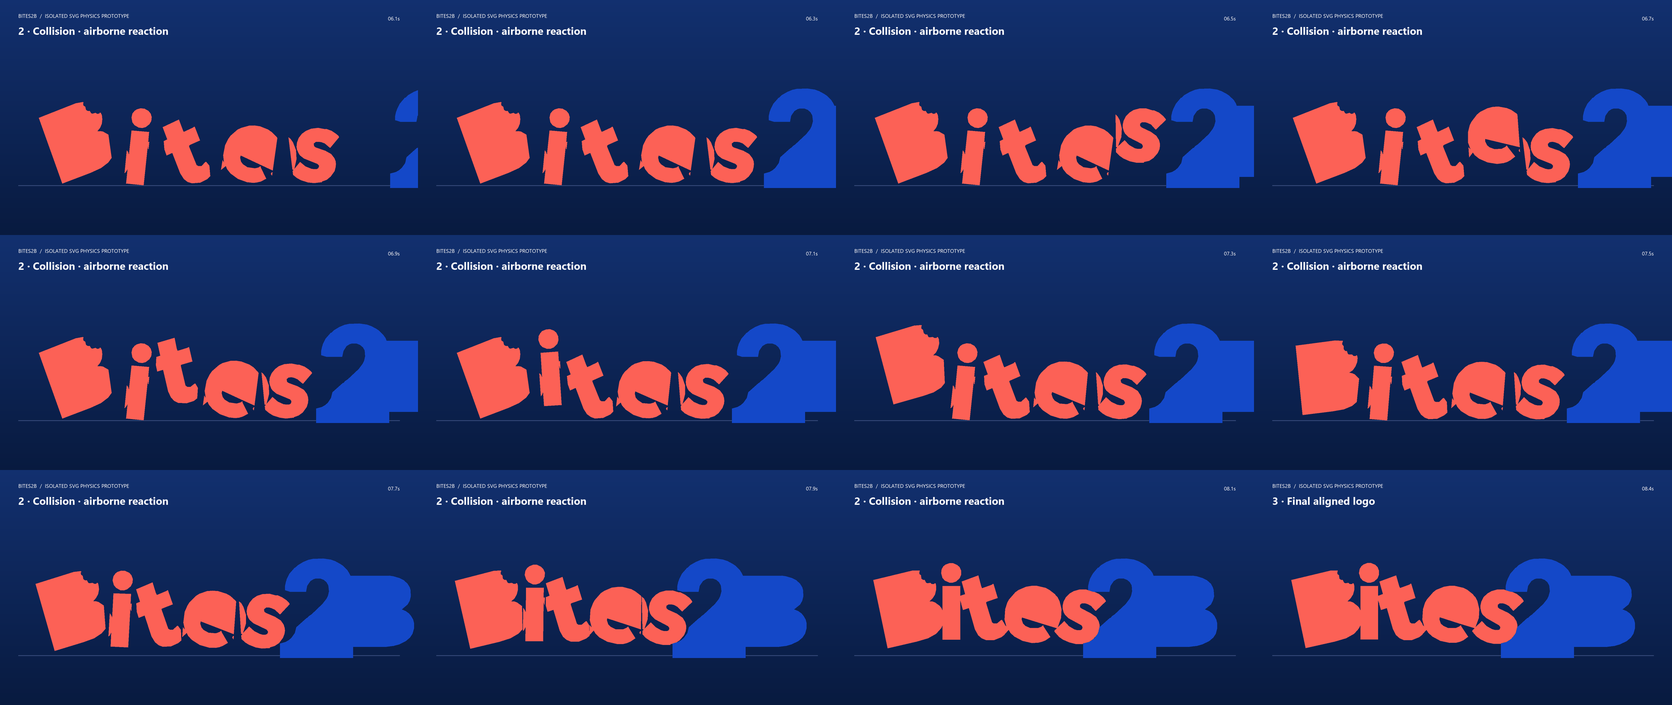
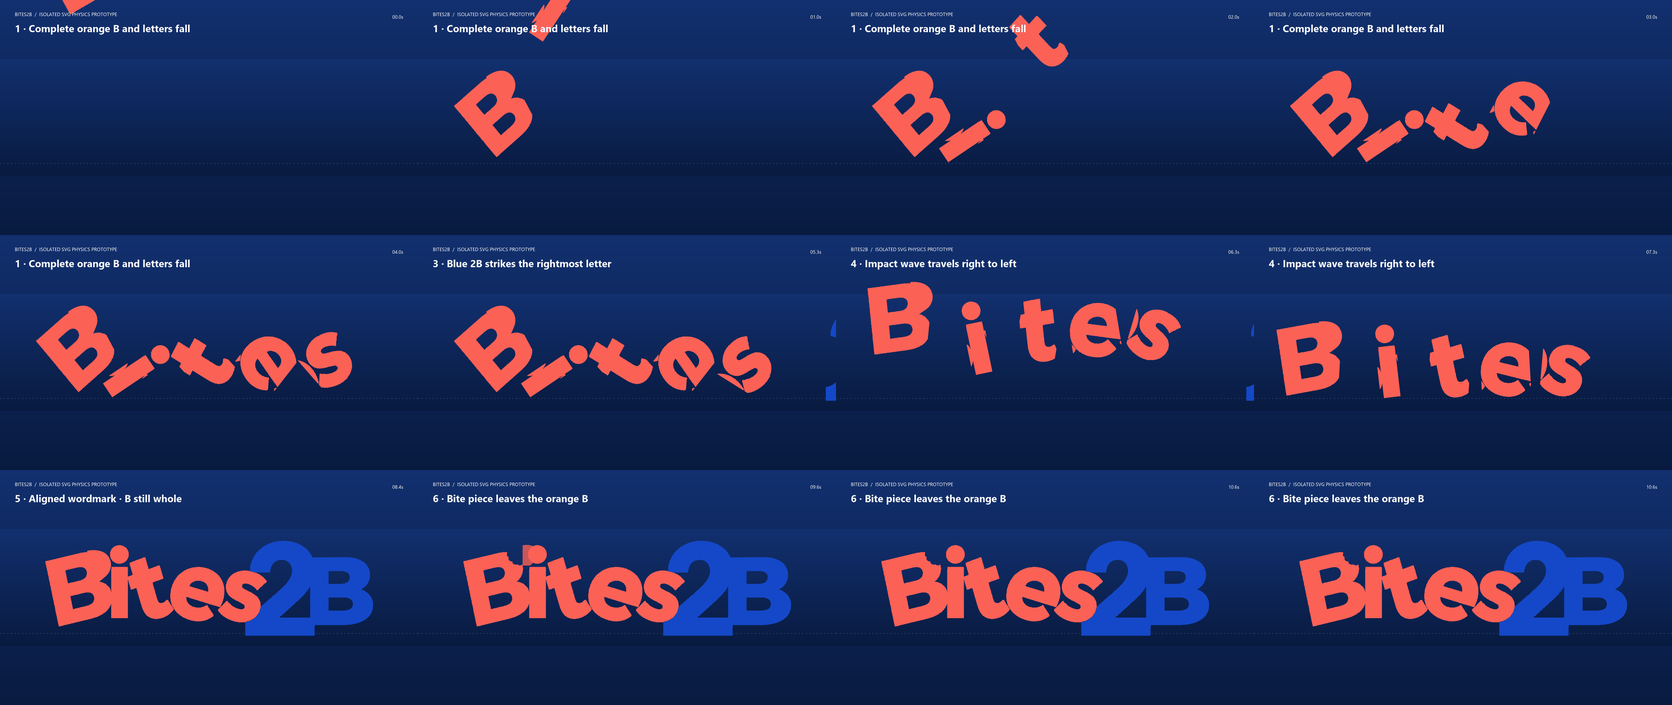
Refresh Bites2B wordmark physics previews

diff --git a/wordmark-physics-prototype.html b/wordmark-physics-prototype.html
@@ -11,7 +11,7 @@ body{display:grid;place-items:center;background:radial-gradient(ellipse at 50% 4
 .frame{width:min(100vw,160vh);height:min(100dvh,62.5vw);min-height:320px;display:grid;grid-template-rows:auto 1fr auto;gap:12px;padding:clamp(14px,3vw,36px)}
 header{display:flex;align-items:center;justify-content:space-between;gap:12px}.eyebrow{font-size:12px;letter-spacing:.14em;text-transform:uppercase;opacity:.7}.stage{font-size:clamp(16px,2.2vw,24px);font-weight:750}
 .stage-window{position:relative;display:grid;place-items:center;min-height:0;overflow:hidden;border:1px solid #ffffff20;border-radius:20px;background:linear-gradient(180deg,#ffffff03 0 68%,#050b25 68% 100%)}
-svg{display:block;width:min(96%,1150px);max-height:88%;overflow:visible;isolation:isolate}.floor{stroke:#8191cf42;stroke-width:2;stroke-dasharray:5 8}.letter path,.blue path{stroke:none;stroke-width:0;vector-effect:non-scaling-stroke}.letter path{fill:var(--orange)}.blue path{fill:var(--blue)}
+svg{display:block;width:min(96%,1150px);max-height:88%;overflow:visible;isolation:isolate}.floor{stroke:#8191cf42;stroke-width:2;stroke-dasharray:5 8}.letter path,.blue path{stroke:none;stroke-width:0;vector-effect:non-scaling-stroke}.letter path{fill:var(--orange)}.blue path{fill:var(--blue)}.bite-piece{transform-box:fill-box;transform-origin:center}
 .letter,.blue{transform-box:view-box;transform-origin:0 0;will-change:transform}.blue{opacity:0}.letter{opacity:0}
 .controls{display:flex;align-items:center;justify-content:space-between;gap:12px}.buttons{display:flex;gap:8px;flex-wrap:wrap}button{font:inherit;color:#fff;background:#ffffff10;border:1px solid #ffffff30;border-radius:999px;padding:9px 15px;cursor:pointer}button:hover,button[aria-pressed=true]{background:#ffffff27}button:focus-visible{outline:3px solid white;outline-offset:2px}.legend{font-size:12px;opacity:.65}
 @media(max-width:560px){.frame{width:100vw;height:100dvh;min-height:0;padding:16px;gap:8px}.stage-window{border-radius:14px}svg{width:114%;max-width:none;transform:translateX(-6%)}.controls{align-items:flex-start;flex-direction:column}.legend{font-size:11px}}
@@ -19,60 +19,57 @@ svg{display:block;width:min(96%,1150px);max-height:88%;overflow:visible;isolatio
 </head>
 <body>
 <main class="frame">
-<header><div><div class="eyebrow">Isolated SVG physics prototype</div><div class="stage" id="stage">1 · Scattered letters</div></div><div class="eyebrow">Official 1201 × 366 viewBox</div></header>
+<header><div><div class="eyebrow">Isolated SVG physics prototype</div><div class="stage" id="stage">1 · Letters falling</div></div><div class="eyebrow">Original 1201 × 366 logo coordinates</div></header>
 <section class="stage-window" aria-label="Wordmark collision preview">
-<svg id="mark" viewBox="0 0 1201 366" role="img" aria-label="Bites2B wordmark">
-<line class="floor" x1="0" y1="345" x2="1201" y2="345"/>
-<g class="letter" data-i="0"><path d="M180 236 L187 227 L188 215 L182 203 L172 198 L157 198 L103 211 L112 257 L161 246 L178 239Z M169 58 L169 65 L175 70 L176 81 L182 86 L188 86 L192 95 L196 97 L207 96 L212 100 L220 100 L222 97 L225 98 L227 106 L227 120 L223 136 L215 149 L204 159 L215 160 L223 163 L240 176 L240 256 L226 271 L199 286 L161 297 L61 320 L12 86 L145 54 L170 53 L171 56Z M155 112 L145 107 L132 107 L86 118 L85 123 L94 165 L141 154 L152 148 L158 142 L161 135 L161 122Z"/></g>
-<g class="letter" data-i="1"><path d="M313 162 L313 163 L313 164 L312 164 L309 153 L309 290 L249 290 L249 240 L244 251 L240 255 L240 177 L244 181 L249 192 L249 107 L309 106 L309 140 L313 139Z M244 63 L246 49 L252 39 L259 33 L272 28 L285 28 L299 34 L307 42 L312 54 L312 68 L307 80 L295 91 L284 95 L272 95 L257 88 L249 79Z"/></g>
-<g class="letter" data-i="2"><path d="M381 107 L384 114 L417 102 L421 99 L422 99 L422 100 L423 100 L437 148 L402 160 L398 162 L398 166 L418 231 L424 235 L435 235 L449 223 L450 223 L451 223 L452 223 L461 237 L461 273 L450 282 L425 292 L397 292 L383 286 L371 275 L360 255 L339 182 L319 189 L313 168 L313 139 L326 134 L314 91 L371 70Z"/></g>
-<g class="letter" data-i="3"><path d="M565 186 L595 195 L596 195 L596 194 L597 194 L597 182 L593 171 L587 164 L576 158 L569 156 L550 157 L538 163 L530 173 L530 174 L530 175Z M587 235 L520 214 L519 222 L524 235 L532 243 L549 251 L575 251 L587 246 L593 241 L594 245 L618 281 L601 293 L589 298 L577 301 L555 302 L523 295 L495 280 L481 267 L475 257 L461 272 L461 239 L468 247 L461 222 L463 186 L471 163 L477 152 L498 128 L509 120 L535 109 L553 106 L572 106 L601 113 L615 120 L634 135 L636 138 L636 250Z M633 258 L636 256 L636 267 L632 263Z"/></g>
-<g class="letter" data-i="4"><path d="M725 256 L728 251 L728 247 L724 241 L680 217 L668 205 L664 198 L660 184 L660 174 L663 160 L671 145 L684 132 L698 124 L717 119 L741 119 L763 126 L768 126 L784 134 L798 145 L806 154 L808 159 L774 191 L773 191 L772 191 L757 175 L746 169 L736 166 L726 166 L719 171 L719 179 L724 184 L755 199 L774 213 L783 228 L786 240 L786 249 L784 259 L778 273 L763 290 L748 299 L731 303 L731 304 L730 304 L730 305 L704 305 L683 300 L661 290 L648 281 L636 268 L636 255 L639 253 L639 252 L639 251 L636 250 L636 139 L642 145 L649 158 L656 186 L654 216 L642 249 L665 227 L681 244 L700 255 L711 258 L720 258Z"/></g>
-<g class="blue"><path d="M890 255 L853 288 L963 288 L962 178 L946 201Z M763 64 L780 44 L781 44 L782 44 L791 35 L810 24 L828 17 L842 14 L877 12 L903 16 L918 21 L935 30 L945 37 L960 52 L967 62 L971 72 L1105 71 L1119 73 L1139 79 L1154 87 L1167 99 L1174 111 L1177 121 L1178 143 L1174 158 L1167 170 L1147 187 L1161 193 L1172 201 L1179 209 L1186 222 L1189 234 L1189 252 L1184 270 L1175 284 L1161 296 L1138 307 L1119 312 L1095 315 L980 315 L980 353 L730 353 L730 304 L749 299 L761 292 L770 284 L781 268 L786 248 L821 217 L822 217 L823 217 L830 209 L838 204 L876 168 L889 151 L894 141 L898 125 L896 105 L890 94 L881 86 L868 81 L853 81 L845 83 L834 90 L823 106 L819 126 L764 126 L747 121 L747 107 L750 93 L754 81Z M1029 235 L1029 263 L1093 262 L1110 255 L1116 244 L1116 234 L1113 227 L1108 222 L1091 216 L1029 216Z M1029 147 L1029 165 L1032 167 L1077 167 L1088 165 L1098 160 L1104 151 L1105 139 L1099 128 L1086 122 L1029 121Z"/></g>
+<svg id="mark" viewBox="-150 -30 1500 420" role="img" aria-label="Bites2B wordmark">
+<line class="floor" x1="-150" y1="345" x2="1350" y2="345"/>
+<g class="blue"><path d="M1189 235 L1188 257 L1187 257 L1187 261 L1186 261 L1185 267 L1184 267 L1181 275 L1179 276 L1177 281 L1167 291 L1165 291 L1162 295 L1160 295 L1159 297 L1153 299 L1152 301 L1147 302 L1145 304 L1142 304 L1140 306 L1134 307 L1134 308 L1123 310 L1123 311 L1118 311 L1118 312 L1113 312 L1113 313 L1105 313 L1105 314 L1093 314 L1093 315 L980 315 L980 319 L979 319 L979 353 L730 353 L730 304 L741 302 L741 301 L744 301 L746 299 L749 299 L749 298 L755 296 L756 294 L758 294 L759 292 L761 292 L764 288 L766 288 L771 283 L771 281 L775 278 L777 273 L779 272 L779 270 L780 270 L780 268 L782 266 L784 257 L785 257 L786 248 L789 247 L790 244 L792 244 L796 239 L798 239 L805 231 L807 231 L820 218 L822 218 L829 210 L831 210 L834 206 L836 206 L853 189 L855 189 L859 185 L859 183 L862 182 L878 166 L878 164 L882 161 L882 159 L885 157 L885 155 L889 151 L889 149 L890 149 L890 147 L891 147 L891 145 L892 145 L892 143 L895 139 L895 135 L896 135 L896 132 L897 132 L897 126 L898 126 L898 114 L897 114 L897 108 L896 108 L895 102 L894 102 L893 98 L891 97 L891 95 L883 87 L881 87 L880 85 L878 85 L876 83 L869 82 L869 81 L852 81 L852 82 L845 83 L845 84 L841 85 L840 87 L838 87 L837 89 L835 89 L830 94 L830 96 L827 98 L827 100 L826 100 L826 102 L825 102 L825 104 L823 106 L821 116 L820 116 L819 126 L765 126 L765 125 L761 125 L761 124 L755 123 L755 122 L747 121 L748 102 L749 102 L749 97 L750 97 L750 94 L751 94 L752 87 L754 85 L754 82 L755 82 L755 80 L756 80 L762 66 L767 61 L769 56 L785 40 L787 40 L794 33 L798 32 L799 30 L801 30 L801 29 L803 29 L805 27 L807 27 L808 25 L811 25 L811 24 L813 24 L815 22 L818 22 L820 20 L823 20 L823 19 L826 19 L826 18 L829 18 L829 17 L838 16 L838 15 L842 15 L842 14 L849 14 L849 13 L873 12 L873 13 L892 14 L892 15 L902 16 L902 17 L906 17 L906 18 L915 20 L919 23 L922 23 L922 24 L930 27 L931 29 L933 29 L936 32 L938 32 L939 34 L941 34 L944 38 L946 38 L959 51 L959 53 L963 56 L966 63 L968 64 L971 72 L1102 71 L1102 72 L1113 72 L1113 73 L1119 73 L1119 74 L1127 75 L1127 76 L1136 78 L1138 80 L1141 80 L1141 81 L1147 83 L1148 85 L1152 86 L1153 88 L1155 88 L1157 91 L1159 91 L1165 97 L1165 99 L1168 101 L1168 103 L1170 104 L1170 106 L1171 106 L1171 108 L1172 108 L1172 110 L1175 114 L1175 118 L1176 118 L1176 122 L1177 122 L1177 128 L1178 128 L1178 142 L1177 142 L1177 148 L1176 148 L1175 155 L1174 155 L1169 167 L1166 169 L1166 171 L1158 179 L1156 179 L1153 183 L1151 183 L1150 185 L1148 185 L1146 187 L1159 192 L1160 194 L1162 194 L1163 196 L1168 198 L1172 203 L1175 204 L1175 206 L1178 208 L1178 210 L1180 211 L1180 213 L1182 214 L1182 216 L1185 220 L1185 223 L1186 223 L1186 226 L1187 226 L1187 229 L1188 229 L1188 235Z M1105 147 L1105 138 L1104 138 L1103 132 L1093 124 L1090 124 L1090 123 L1087 123 L1087 122 L1081 122 L1081 121 L1029 121 L1029 167 L1080 167 L1080 166 L1089 165 L1089 164 L1097 161 L1100 158 L1100 156 L1102 155 L1102 153 L1104 151 L1104 147Z M963 177 L961 178 L960 182 L958 183 L956 188 L953 190 L953 192 L945 200 L945 202 L916 231 L914 231 L901 245 L899 245 L891 254 L889 254 L881 263 L879 263 L870 273 L868 273 L860 282 L858 282 L853 287 L853 288 L963 288Z M1116 245 L1116 233 L1114 231 L1114 228 L1107 221 L1105 221 L1103 219 L1100 219 L1098 217 L1093 217 L1093 216 L1029 216 L1029 263 L1087 263 L1087 262 L1094 262 L1094 261 L1098 261 L1098 260 L1101 260 L1101 259 L1106 258 L1107 256 L1109 256 L1113 252 L1113 250 L1115 248 L1115 245Z" fill-rule="evenodd"/></g><g class="letter" data-i="0"><path d="M246 185 L246 247 L244 248 L241 255 L238 257 L238 259 L227 270 L222 272 L217 277 L211 279 L210 281 L207 281 L207 282 L205 282 L201 285 L198 285 L198 286 L190 288 L190 289 L186 289 L186 290 L183 290 L183 291 L179 291 L179 292 L176 292 L176 293 L172 293 L172 294 L168 294 L168 295 L164 295 L164 296 L160 296 L160 297 L155 297 L155 298 L151 298 L151 299 L147 299 L147 300 L143 300 L143 301 L139 301 L139 302 L135 302 L135 303 L131 303 L131 304 L126 304 L126 305 L122 305 L122 306 L118 306 L118 307 L114 307 L114 308 L105 309 L105 310 L102 310 L102 311 L97 311 L97 312 L93 312 L93 313 L89 313 L89 314 L80 315 L80 316 L77 316 L77 317 L61 320 L60 313 L59 313 L59 308 L58 308 L58 304 L57 304 L57 299 L56 299 L56 294 L55 294 L55 289 L54 289 L54 284 L53 284 L53 280 L52 280 L52 275 L51 275 L51 270 L50 270 L46 245 L45 245 L45 241 L44 241 L42 226 L41 226 L40 217 L39 217 L39 213 L38 213 L37 202 L36 202 L35 192 L34 192 L34 188 L33 188 L33 182 L32 182 L32 177 L31 177 L31 173 L30 173 L28 158 L27 158 L27 154 L26 154 L24 139 L23 139 L23 135 L22 135 L20 120 L19 120 L18 111 L17 111 L17 107 L16 107 L16 102 L15 102 L15 97 L14 97 L14 93 L13 93 L13 86 L14 85 L27 83 L27 82 L31 82 L31 81 L36 81 L36 80 L40 80 L40 79 L44 79 L44 78 L49 78 L49 77 L53 77 L53 76 L56 76 L56 75 L69 73 L69 72 L73 72 L73 71 L77 71 L77 70 L81 70 L81 69 L85 69 L85 68 L90 68 L90 67 L94 67 L94 66 L98 66 L98 65 L102 65 L102 64 L107 64 L107 63 L111 63 L111 62 L115 62 L115 61 L119 61 L119 60 L123 60 L123 59 L127 59 L127 58 L132 58 L132 57 L136 57 L136 56 L140 56 L140 55 L153 54 L153 53 L169 53 L170 54 L169 65 L172 69 L175 70 L175 80 L177 81 L178 84 L180 84 L182 86 L188 86 L190 93 L195 97 L199 97 L199 98 L208 97 L211 100 L215 100 L215 101 L220 100 L222 98 L225 98 L226 108 L227 108 L227 118 L226 118 L226 125 L225 125 L225 129 L224 129 L224 133 L223 133 L219 143 L214 148 L214 150 L207 157 L205 157 L204 159 L214 160 L214 161 L220 162 L220 163 L228 166 L243 180 L243 182Z M162 130 L161 121 L160 121 L158 115 L154 111 L152 111 L151 109 L146 108 L146 107 L132 107 L132 108 L122 109 L122 110 L118 110 L118 111 L114 111 L114 112 L110 112 L110 113 L105 113 L105 114 L101 114 L101 115 L97 115 L97 116 L93 116 L93 117 L89 117 L89 118 L85 119 L85 124 L86 124 L86 129 L87 129 L87 134 L88 134 L88 139 L89 139 L89 144 L90 144 L90 149 L91 149 L91 154 L92 154 L92 159 L93 159 L94 165 L101 164 L101 163 L104 163 L104 162 L114 161 L114 160 L118 160 L118 159 L123 159 L123 158 L126 158 L126 157 L138 155 L138 154 L141 154 L141 153 L144 153 L144 152 L148 151 L149 149 L151 149 L159 141 L160 136 L161 136 L161 130Z M188 224 L188 214 L187 214 L187 211 L186 211 L185 207 L183 206 L183 204 L181 202 L179 202 L178 200 L173 199 L173 198 L156 198 L156 199 L152 199 L152 200 L147 200 L147 201 L143 201 L143 202 L139 202 L139 203 L135 203 L135 204 L131 204 L131 205 L127 205 L127 206 L113 208 L113 209 L103 211 L103 216 L104 216 L104 221 L105 221 L105 226 L106 226 L106 230 L107 230 L108 241 L109 241 L109 245 L110 245 L110 251 L111 251 L112 258 L120 256 L120 255 L125 255 L125 254 L129 254 L129 253 L134 253 L134 252 L138 252 L138 251 L158 247 L158 246 L165 245 L165 244 L168 244 L170 242 L173 242 L176 239 L178 239 L184 233 L184 231 L186 230 L187 224Z" fill-rule="evenodd"/><path class="bite-piece" d="M163 48 C194 42 223 48 237 66 C246 78 250 92 248 105 C246 120 239 132 227 142 L204 161 L163 161Z" aria-hidden="true"/></g>
+<g class="letter" data-i="1"><path d="M312 54 L312 68 L311 68 L311 72 L310 72 L308 78 L306 79 L306 81 L298 89 L294 90 L293 92 L283 94 L283 95 L269 94 L269 93 L266 93 L266 92 L262 91 L258 87 L256 87 L252 83 L252 81 L249 79 L249 77 L248 77 L248 75 L246 73 L246 69 L245 69 L245 53 L246 53 L246 50 L248 48 L248 45 L250 44 L250 42 L258 34 L260 34 L261 32 L263 32 L265 30 L272 29 L272 28 L284 28 L284 29 L288 29 L288 30 L291 30 L291 31 L297 33 L298 35 L300 35 L306 41 L306 43 L308 44 L308 46 L310 48 L311 54Z M314 139 L314 163 L312 163 L310 152 L309 152 L309 290 L249 290 L249 239 L248 239 L248 242 L247 242 L246 247 L244 248 L243 252 L241 253 L240 256 L238 256 L238 177 L240 177 L243 180 L243 182 L246 185 L246 188 L248 190 L248 193 L250 195 L250 192 L249 192 L249 114 L250 114 L250 106 L308 106 L308 109 L309 109 L309 141Z" fill-rule="evenodd"/><path class="bite-piece" d="M163 48 C194 42 223 48 237 66 C246 78 250 92 248 105 C246 120 239 132 227 142 L204 161 L163 161Z" aria-hidden="true"/></g>
+<g class="letter" data-i="2"><path d="M461 237 L461 273 L458 276 L456 276 L453 280 L451 280 L451 281 L445 283 L444 285 L442 285 L440 287 L437 287 L435 289 L431 289 L431 290 L424 291 L424 292 L417 292 L417 293 L404 293 L404 292 L398 292 L398 291 L394 291 L392 289 L389 289 L389 288 L385 287 L384 285 L382 285 L381 283 L379 283 L373 277 L373 275 L369 272 L369 270 L367 269 L367 267 L366 267 L366 265 L365 265 L365 263 L364 263 L364 261 L363 261 L363 259 L361 257 L361 254 L360 254 L360 251 L359 251 L356 239 L355 239 L355 235 L354 235 L354 232 L353 232 L353 228 L352 228 L352 225 L351 225 L351 221 L350 221 L350 218 L349 218 L349 215 L348 215 L348 211 L347 211 L347 208 L346 208 L346 204 L345 204 L345 200 L344 200 L344 197 L343 197 L343 193 L342 193 L342 190 L341 190 L340 183 L337 182 L337 183 L331 184 L329 186 L319 188 L318 180 L317 180 L315 170 L314 170 L314 167 L313 167 L313 139 L321 137 L321 136 L326 134 L325 128 L324 128 L324 125 L323 125 L323 121 L322 121 L322 118 L321 118 L321 114 L320 114 L320 111 L319 111 L319 107 L318 107 L318 104 L317 104 L317 101 L316 101 L315 91 L320 90 L320 89 L325 88 L325 87 L328 87 L330 85 L333 85 L335 83 L338 83 L340 81 L349 79 L351 77 L357 76 L357 75 L362 74 L364 72 L371 71 L372 75 L373 75 L374 82 L375 82 L376 90 L377 90 L377 93 L378 93 L378 97 L379 97 L379 100 L380 100 L380 104 L381 104 L381 107 L382 107 L383 114 L385 114 L387 112 L390 112 L390 111 L393 111 L393 110 L396 110 L398 108 L404 107 L406 105 L412 104 L414 102 L423 100 L423 103 L424 103 L424 106 L425 106 L425 109 L426 109 L426 112 L427 112 L427 115 L428 115 L428 118 L429 118 L430 126 L431 126 L433 136 L434 136 L434 139 L435 139 L435 143 L436 143 L436 149 L427 151 L425 153 L422 153 L422 154 L419 154 L419 155 L416 155 L416 156 L413 156 L413 157 L410 157 L410 158 L407 158 L405 160 L402 160 L402 161 L398 162 L400 174 L401 174 L403 184 L404 184 L404 187 L405 187 L405 191 L406 191 L408 202 L409 202 L409 205 L410 205 L410 208 L411 208 L412 216 L413 216 L413 219 L414 219 L414 222 L415 222 L415 225 L416 225 L418 231 L423 235 L431 236 L431 235 L435 235 L435 234 L439 233 L447 225 L452 224 L454 226 L454 228 L456 229 L456 231 L458 232 L459 236Z" fill-rule="evenodd"/><path class="bite-piece" d="M163 48 C194 42 223 48 237 66 C246 78 250 92 248 105 C246 120 239 132 227 142 L204 161 L163 161Z" aria-hidden="true"/></g>
+<g class="letter" data-i="3"><path d="M638 140 L638 250 L635 250 L635 249 L632 249 L632 248 L629 248 L629 247 L626 247 L626 246 L618 245 L618 244 L615 244 L615 243 L612 243 L612 242 L608 242 L608 241 L605 241 L605 240 L601 240 L601 239 L598 239 L598 238 L595 238 L595 237 L585 235 L585 234 L580 233 L580 232 L576 232 L576 231 L566 229 L566 228 L563 228 L563 227 L560 227 L560 226 L557 226 L557 225 L554 225 L554 224 L550 224 L550 223 L547 223 L547 222 L544 222 L544 221 L540 221 L540 220 L537 220 L537 219 L534 219 L534 218 L531 218 L531 217 L528 217 L528 216 L518 214 L520 227 L521 227 L521 230 L524 233 L524 235 L533 244 L535 244 L536 246 L538 246 L542 249 L553 251 L553 252 L571 252 L571 251 L581 249 L581 248 L587 246 L590 243 L593 243 L596 246 L599 253 L601 254 L603 259 L605 260 L605 262 L607 263 L607 265 L609 266 L609 268 L613 272 L614 276 L616 277 L616 282 L612 286 L607 288 L606 290 L604 290 L604 291 L602 291 L602 292 L600 292 L600 293 L598 293 L594 296 L591 296 L591 297 L588 297 L588 298 L585 298 L585 299 L581 299 L581 300 L575 300 L575 301 L565 301 L565 302 L548 301 L548 300 L542 300 L542 299 L537 299 L537 298 L534 298 L534 297 L530 297 L530 296 L524 295 L522 293 L519 293 L517 291 L514 291 L514 290 L506 287 L505 285 L503 285 L502 283 L497 281 L495 278 L493 278 L488 272 L486 272 L483 269 L483 267 L478 263 L478 261 L475 259 L475 257 L473 256 L472 252 L470 251 L470 249 L467 245 L467 242 L466 242 L466 239 L465 239 L465 236 L464 236 L464 232 L463 232 L463 228 L462 228 L462 220 L461 220 L461 202 L462 202 L463 187 L464 187 L464 183 L465 183 L465 180 L466 180 L469 168 L470 168 L476 154 L478 153 L478 151 L480 150 L482 145 L486 142 L486 140 L496 130 L498 130 L501 126 L503 126 L505 123 L507 123 L511 119 L513 119 L513 118 L515 118 L515 117 L517 117 L521 114 L524 114 L526 112 L530 112 L530 111 L533 111 L533 110 L536 110 L536 109 L540 109 L540 108 L555 107 L555 106 L569 106 L569 107 L578 107 L578 108 L588 109 L588 110 L591 110 L591 111 L598 112 L602 115 L605 115 L605 116 L613 119 L614 121 L618 122 L620 125 L622 125 L624 128 L626 128Z M597 195 L597 181 L596 181 L596 177 L595 177 L593 171 L591 170 L591 168 L586 163 L584 163 L583 161 L581 161 L577 158 L573 158 L573 157 L570 157 L570 156 L553 156 L553 157 L547 158 L547 159 L539 162 L533 168 L533 170 L530 173 L530 175 L532 175 L532 176 L535 176 L535 177 L538 177 L538 178 L541 178 L541 179 L544 179 L544 180 L547 180 L547 181 L555 182 L555 183 L558 183 L558 184 L561 184 L561 185 L565 185 L565 186 L568 186 L568 187 L571 187 L571 188 L574 188 L574 189 L578 189 L578 190 L581 190 L581 191 L584 191 L584 192 L588 192 L588 193 L591 193 L591 194Z M473 256 L473 260 L471 261 L471 263 L463 271 L461 271 L461 240 L463 240 L463 242 L465 243 L465 245 L467 246 L467 248 L469 249 L470 253Z M638 255 L638 268 L636 268 L634 266 L634 264 L632 263 L633 258 L636 255Z" fill-rule="evenodd"/><path class="bite-piece" d="M163 48 C194 42 223 48 237 66 C246 78 250 92 248 105 C246 120 239 132 227 142 L204 161 L163 161Z" aria-hidden="true"/></g>
+<g class="letter" data-i="4"><path d="M807 156 L807 160 L801 166 L799 166 L788 178 L786 178 L775 190 L771 190 L771 188 L761 178 L759 178 L757 175 L755 175 L754 173 L752 173 L752 172 L750 172 L750 171 L748 171 L744 168 L737 167 L737 166 L726 166 L726 167 L723 167 L719 171 L719 179 L724 184 L726 184 L727 186 L729 186 L729 187 L731 187 L731 188 L733 188 L733 189 L735 189 L735 190 L737 190 L737 191 L739 191 L739 192 L753 198 L754 200 L756 200 L759 203 L761 203 L762 205 L764 205 L767 209 L769 209 L777 217 L777 219 L779 220 L779 222 L780 222 L780 224 L783 228 L783 231 L784 231 L786 248 L785 248 L785 254 L784 254 L784 258 L783 258 L781 267 L780 267 L779 271 L777 272 L777 274 L775 275 L775 277 L772 279 L772 281 L764 289 L762 289 L760 292 L758 292 L757 294 L755 294 L752 297 L747 298 L745 300 L735 302 L735 303 L730 303 L730 305 L705 305 L705 304 L694 303 L694 302 L690 302 L690 301 L681 299 L681 298 L676 297 L674 295 L671 295 L671 294 L665 292 L664 290 L658 288 L657 286 L652 284 L649 280 L647 280 L636 268 L636 255 L640 253 L640 251 L636 250 L636 140 L638 140 L638 142 L641 144 L641 146 L643 147 L644 151 L647 154 L647 157 L648 157 L648 159 L650 161 L650 164 L651 164 L651 167 L652 167 L652 171 L653 171 L653 175 L654 175 L654 181 L655 181 L655 207 L654 207 L653 219 L652 219 L652 222 L651 222 L650 229 L648 231 L648 235 L647 235 L647 237 L645 239 L645 242 L644 242 L642 248 L641 248 L641 251 L663 228 L666 228 L668 230 L668 232 L672 236 L674 236 L683 246 L685 246 L686 248 L692 250 L693 252 L695 252 L697 254 L700 254 L700 255 L706 256 L706 257 L710 257 L710 258 L721 258 L721 257 L725 256 L728 252 L727 244 L723 240 L721 240 L718 237 L714 236 L713 234 L711 234 L711 233 L709 233 L709 232 L707 232 L707 231 L693 225 L692 223 L686 221 L681 216 L679 216 L669 206 L669 204 L667 203 L667 201 L665 200 L665 197 L663 195 L662 188 L661 188 L661 182 L660 182 L661 168 L662 168 L664 158 L665 158 L669 148 L672 146 L672 144 L684 132 L686 132 L687 130 L689 130 L689 129 L691 129 L691 128 L701 124 L701 123 L705 123 L705 122 L713 121 L713 120 L719 120 L719 119 L738 119 L738 120 L746 120 L747 122 L760 124 L762 126 L767 126 L769 128 L772 128 L772 129 L782 133 L783 135 L788 137 L790 140 L792 140Z" fill-rule="evenodd"/><path class="bite-piece" d="M163 48 C194 42 223 48 237 66 C246 78 250 92 248 105 C246 120 239 132 227 142 L204 161 L163 161Z" aria-hidden="true"/></g>
+
 </svg>
 </section>
-<nav class="controls" aria-label="Prototype controls"><div class="buttons"><button id="replay">Replay normal speed</button><button id="slow">Replay slow collision</button><button id="scatter">Scattered</button><button id="airborne">Airborne reaction</button><button id="final">Final aligned</button></div><div class="legend">Orange glyph paths remain separate. Blue enters from the right.</div></nav>
+<nav class="controls" aria-label="Prototype controls"><div class="buttons"><button id="replay">Replay normal speed</button><button id="slow">Replay slow-motion collision</button><button id="scatter">2 · Crooked pause</button><button id="contact">3 · First contact</button><button id="airborne">4 · Airborne reaction</button><button id="final">5 · Aligned, unbitten</button><button id="bitten">6 · Final bite</button></div><div class="legend">Five separate SVG glyphs · no image swap · exact final source paths</div></nav>
 </main>
 <script>
 (() => {
- const svg=document.querySelector('#mark'),letters=[...svg.querySelectorAll('.letter')],blue=svg.querySelector('.blue'),label=document.querySelector('#stage');
- // Fixed path bounds are measured once from each official source glyph. The offsets are SVG user units.
- const bounds=[{x:12,y:28,w:228,h:292},{x:240,y:28,w:73,h:262},{x:313,y:70,w:148,h:222},{x:461,y:106,w:175,h:196},{x:636,y:119,w:172,h:186}];
- const angle=[-8,6,-5,8,-7],gap=32,ground=345;
+ const svg=document.querySelector('#mark'),letters=[...svg.querySelectorAll('.letter')],blue=svg.querySelector('.blue'),bite=svg.querySelector('.bite-piece'),label=document.querySelector('#stage');
+ const bounds=[{x:13,y:53,w:233,h:267},{x:238,y:28,w:76,h:262},{x:313,y:71,w:148,h:222},{x:461,y:106,w:177,h:196},{x:636,y:119,w:171,h:186}];
+ const angle=[-28,56,-42,38,-58],ground=345,viewRight=1350,blueContact=352.5;
  const rotated=(b,a)=>{const r=Math.abs(a*Math.PI/180);return{w:b.w*Math.cos(r)+b.h*Math.sin(r),h:b.h*Math.cos(r)+b.w*Math.sin(r)}};
  const extent=(b,x,a)=>{const r=rotated(b,a),extra=(r.w-b.w)/2;return{left:b.x+x-extra,right:b.x+x+b.w+extra}};
- let cursor=12;
- const scatter=bounds.map((b,i)=>{const r=rotated(b,angle[i]),left=cursor,dx=left+r.w/2-(b.x+b.w/2),dy=ground-(b.y+b.h/2+r.h/2);cursor+=r.w+gap;return{dx,dy,a:angle[i],w:r.w,h:r.h,b};});
- const state=bounds.map(()=>({x:0,y:0,a:0,vx:0,vy:0,va:0,active:false,done:false}));
+ const scatter=[{dx:0,dy:-14.07},{dx:67.04,dy:81.24},{dx:189.89,dy:31.00},{dx:255.16,dy:9.29},{dx:308.73,dy:11.21}].map((p,i)=>({...p,a:angle[i],box:bounds[i]}));
+ const state=bounds.map(()=>({x:0,y:-560,a:0,vx:0,vy:0,va:0,active:false,done:false,chain:false}));
  let raf=0,mode='';
- const paint=(i)=>letters[i].setAttribute('transform',`translate(${state[i].x.toFixed(2)} ${state[i].y.toFixed(2)}) rotate(${state[i].a.toFixed(2)} ${bounds[i].x+bounds[i].w/2} ${bounds[i].y+bounds[i].h/2})`);
- const reset=()=>{cancelAnimationFrame(raf);state.forEach((s,i)=>{Object.assign(s,{x:0,y:-540,a:0,vx:0,vy:0,va:0,active:false,done:false});letters[i].style.opacity='0';paint(i)});blue.style.opacity='0';blue.setAttribute('transform','translate(0 0)');};
- function pose(which){reset();if(which==='scatter'||which==='airborne'){state.forEach((s,i)=>{s.x=scatter[i].dx-(which==='airborne'&&i===4?10:0);s.y=scatter[i].dy-(which==='airborne'?[58,72,83,100,126][i]:0);s.a=scatter[i].a+(which==='airborne'?(i%2?8:-11):0);s.vy=which==='airborne'?-180-i*14:0;s.vx=which==='airborne'?-100-i*15:0;s.va=which==='airborne'?angle[i]*2:0;letters[i].style.opacity='1';paint(i)});if(which==='airborne'){blue.style.opacity='1';const contactX=extent(bounds[4],state[4].x,state[4].a).right-730;blue.setAttribute('transform',`translate(${contactX.toFixed(2)} 0)`)}label.textContent=which==='scatter'?'1 · Scattered orange letters':'2 · Collision · airborne reaction'}else{state.forEach((s,i)=>{Object.assign(s,{x:0,y:0,a:0,vx:0,vy:0,va:0});letters[i].style.opacity='1';paint(i)});blue.style.opacity='1';blue.setAttribute('transform','translate(0 0)');label.textContent='3 · Final aligned logo'}}
- function run(slow=false){reset();mode='run';const rate=slow ? .42 : 1;label.textContent='1 · Scattered orange letters';const begin=performance.now();let last=begin,fallNext=0,blueX=1201,contact=false,chain=[false,false,false,false,false],aligned=false;
+ const paint=i=>letters[i].setAttribute('transform',`translate(${state[i].x.toFixed(2)} ${state[i].y.toFixed(2)}) rotate(${state[i].a.toFixed(2)} ${bounds[i].x+bounds[i].w/2} ${bounds[i].y+bounds[i].h/2})`);
+ const floorY=(i,a)=>ground-(bounds[i].y+bounds[i].h/2+rotated(bounds[i],a).h/2);
+ const showBite=(opacity,transform='')=>{bite.style.opacity=String(opacity);bite.style.transform=transform};
+ function reset(){cancelAnimationFrame(raf);mode='';state.forEach((s,i)=>{Object.assign(s,{x:0,y:-560,a:0,vx:0,vy:0,va:0,active:false,done:false,chain:false});letters[i].style.opacity='0';paint(i)});blue.style.opacity='0';blue.setAttribute('transform','translate(0 0)');showBite(1)}
+ function pose(which){reset();if(which==='scatter'||which==='contact'||which==='airborne'){state.forEach((s,i)=>{s.x=scatter[i].dx;s.y=scatter[i].dy-(which==='airborne'?[66,104,82,124,148][i]:0);s.a=scatter[i].a+(which==='airborne'?[9,-10,12,-8,7][i]:0);letters[i].style.opacity='1';paint(i)});if(which==='contact'||which==='airborne'){blue.style.opacity='1';blue.setAttribute('transform',`translate(${which==='contact'?blueContact:blueContact+60} 0)`)}label.textContent=which==='scatter'?'2 · Crooked, disorganized pause':which==='contact'?'3 · Blue 2B makes contact':'4 · Right-to-left airborne reaction'}else{state.forEach((s,i)=>{Object.assign(s,{x:0,y:0,a:0});letters[i].style.opacity='1';paint(i)});blue.style.opacity='1';blue.setAttribute('transform','translate(0 0)');showBite(which==='bitten'?0:1);label.textContent=which==='bitten'?'6 · Orange B bite complete':'5 · Aligned wordmark · B still whole'}}
+ function run(slow=false){reset();mode='run';label.textContent='1 · Complete orange B and letters fall';const rate=slow ? .42 : 1,begin=performance.now();let last=begin,nextFall=0,blueX=viewRight+360-blueLeft,blueActive=false,contact=false,chain=[false,false,false,false,false],landedAt=null,settleStart=null,settleFrom=null,blueFrom=0,biteStart=null;
+  const startBite=now=>{mode='biting';biteStart=now;label.textContent='6 · Piece leaves the orange B'};
   function frame(now){const realDt=Math.min((now-last)/1000,.03);last=now;const dt=realDt*rate,t=(now-begin)*rate;
-   for(let i=0;i<5;i++){const s=state[i];if(!s.active&&t>=fallNext){s.active=true;s.vx=0;s.vy=0;s.va=(i%2?1:-1)*(1.2+i*.16);s.x=scatter[i].dx;s.y=scatter[i].dy-500;s.a=scatter[i].a*.28;letters[i].style.opacity='1';fallNext+=900;}
-    if(!s.active)continue;
-    const target=scatter[i];
-    if(t<5*900+850){if(s.done){paint(i);continue} s.vy+=2300*dt;s.y+=s.vy*dt;s.a+=s.va*dt;if(s.y>=target.dy){s.y=target.dy;s.vy=-Math.abs(s.vy)*.24;s.va=(i%2?1:-1)*(5+i*1.8);if(Math.abs(s.vy)<125){s.vy=0;s.va=0;s.y=target.dy;s.a=target.a;s.done=true}}paint(i);continue}
-   }
-   if(t>5*900+1050){label.textContent=contact?'2 · Collision · airborne reaction':'1 · Scattered orange letters';blue.style.opacity='1';blueX-=760*dt;blue.setAttribute('transform',`translate(${blueX.toFixed(2)} 0)`);const blueLeft=730+blueX;
-    const si=state[4],sbox=bounds[4],right=extent(sbox,si.x,si.a).right;
-    if(!contact&&blueLeft<=right){contact=true;si.vx=-410;si.vy=-560;si.va=-si.a*3.5;si.done=false;chain[4]=true;label.textContent='2 · Collision · airborne reaction';}
-    if(contact){const projectedRight=extent(bounds[4],state[4].x,state[4].a).right;blueX=Math.max(0,projectedRight-730);blue.setAttribute('transform',`translate(${blueX.toFixed(2)} 0)`);
-      const activeAtFrame=chain.slice();
-      for(let i=4;i>=0;i--){const s=state[i];if(!activeAtFrame[i])continue;s.vy+=1100*dt;s.x+=s.vx*dt;s.y+=s.vy*dt;s.va+=-s.a*8*dt;s.a=Math.max(-18,Math.min(18,s.a+s.va*dt));s.vx*=Math.exp(-1.8*dt);s.va*=Math.exp(-4*dt);
-       if(i>0&&!chain[i-1]){const prev=state[i-1],leftEdge=extent(bounds[i],s.x,s.a).left,prevRight=extent(bounds[i-1],prev.x,prev.a).right;if(leftEdge<=prevRight+4){s.x+=prevRight+4-leftEdge;chain[i-1]=true;prev.done=false;prev.vx=s.vx*.92;prev.vy=-500-i*18;prev.va=-prev.a*3.5+(i%2?8:-8);s.vx=prev.vx;collisions++;}}
-       const floorY=scatter[i].dy;if(s.y>=floorY&&s.vy>0){s.y=floorY;s.vy=-Math.abs(s.vy)*.31;if(Math.abs(s.vy)<55){s.vy=0;s.vx*=.62;s.va*=.5}}
-       paint(i);
-      }
-      for(let i=4;i>0;i--){if(!chain[i]||!chain[i-1])continue;const s=state[i],prev=state[i-1],leftEdge=extent(bounds[i],s.x,s.a).left,prevRight=extent(bounds[i-1],prev.x,prev.a).right;if(leftEdge<prevRight+4){s.x+=prevRight+4-leftEdge;s.vx=prev.vx}}
-      if(!aligned&&chain.every(Boolean)&&state.every(s=>Math.abs(s.vy)<2&&Math.abs(s.va)<2)){aligned=true;mode='settling';label.textContent='3 · Final aligned logo';const start=performance.now(),from=state.map(s=>({...s})),blueFrom=blueX;function settle(ts){const p=Math.min(1,(ts-start)/650),e=1-Math.pow(1-p,3);state.forEach((s,i)=>{s.x=from[i].x*(1-e);s.y=from[i].y*(1-e);s.a=from[i].a*(1-e);s.vx=s.vy=s.va=0;paint(i)});blueX=blueFrom*(1-e);blue.setAttribute('transform',`translate(${blueX} 0)`);if(p<1)requestAnimationFrame(settle);else{pose('final');mode='done'}}requestAnimationFrame(settle)}
+   if(mode==='run'){
+    for(let i=0;i<5;i++){const s=state[i];if(!s.active&&t>=nextFall){s.active=true;s.x=scatter[i].dx;s.y=scatter[i].dy-520;s.a=scatter[i].a*.58;s.va=(i%2?1:-1)*(4+i*1.4);letters[i].style.opacity='1';nextFall+=850}
+     if(!s.active||s.done||landedAt!==null)continue;s.vy+=2250*dt;s.y+=s.vy*dt;s.a+=s.va*dt;const floor=floorY(i,s.a);if(s.y>=floor){s.y=floor;s.vy=-Math.abs(s.vy)*.22;s.va=(i%2?1:-1)*(8+i*2);if(Math.abs(s.vy)<112){s.vy=0;s.va=0;s.y=scatter[i].dy;s.a=scatter[i].a;s.done=true}}paint(i)}
+    if(state.every(s=>s.done)&&landedAt===null)landedAt=now;
+    if(landedAt!==null&&now-landedAt>=850/rate){label.textContent='2 · Crooked letters pause · B unbitten';blueActive=true;blue.style.opacity='1';label.textContent='3 · Blue 2B enters from the right'}
+    if(blueActive&&!contact){blueX-=1100*dt;blue.setAttribute('transform',`translate(${blueX.toFixed(2)} 0)`);if(blueX<=blueContact){contact=true;blueX=blueContact;chain[4]=true;state[4].chain=true;state[4].done=false;state[4].vx=-390;state[4].vy=-610;state[4].va=-state[4].a*4;label.textContent='3 · Blue 2B strikes the rightmost letter'}}
+    if(contact){blueX+=300*dt;blue.setAttribute('transform',`translate(${blueX.toFixed(2)} 0)`);label.textContent='4 · Impact wave travels right to left';const active=chain.slice();
+     for(let i=4;i>=0;i--){if(!active[i])continue;const s=state[i];s.vy+=1100*dt;s.x+=s.vx*dt;s.y+=s.vy*dt;s.va+=-s.a*6*dt;s.a=Math.max(-82,Math.min(82,s.a+s.va*dt));s.vx*=Math.exp(-1.9*dt);s.va*=Math.exp(-4*dt);
+      if(i>0&&!chain[i-1]){const prev=state[i-1],left=extent(bounds[i],s.x,s.a).left,rightPrev=extent(bounds[i-1],prev.x,prev.a).right;if(left<=rightPrev+3){s.x+=rightPrev+3-left;chain[i-1]=true;prev.chain=true;prev.done=false;prev.vx=s.vx*.92;prev.vy=-520-i*18;prev.va=-prev.a*3.5+(i%2?10:-10);s.vx=prev.vx}}
+      const floor=floorY(i,s.a);if(s.y>=floor&&s.vy>0){s.y=floor;s.vy=-Math.abs(s.vy)*.28;if(Math.abs(s.vy)<48){s.vy=0;s.vx*=.7;s.va*=.55}}paint(i)}
+     for(let i=4;i>0;i--){if(!chain[i]||!chain[i-1])continue;const s=state[i],prev=state[i-1],left=extent(bounds[i],s.x,s.a).left,rightPrev=extent(bounds[i-1],prev.x,prev.a).right;if(left<rightPrev+3){s.x+=rightPrev+3-left;s.vx=prev.vx}}
+     if(chain.every(Boolean)&&state.every(s=>Math.abs(s.vy)<2&&Math.abs(s.va)<2)){mode='settling';settleStart=now;settleFrom=state.map(s=>({...s}));blueFrom=blueX;label.textContent='5 · Precisely aligned · B still whole'}
     }
    }
-   if(mode==='run')raf=requestAnimationFrame(frame);
-  }raf=requestAnimationFrame(frame);
- }
- document.querySelector('#replay').onclick=()=>run(false);document.querySelector('#slow').onclick=()=>run(true);document.querySelector('#scatter').onclick=()=>pose('scatter');document.querySelector('#airborne').onclick=()=>pose('airborne');document.querySelector('#final').onclick=()=>pose('final');run(false);
+   if(mode==='settling'){const p=Math.min(1,(now-settleStart)/700),e=1-Math.pow(1-p,3);state.forEach((s,i)=>{s.x=settleFrom[i].x*(1-e);s.y=settleFrom[i].y*(1-e);s.a=settleFrom[i].a*(1-e);paint(i)});blueX=blueFrom*(1-e);blue.setAttribute('transform',`translate(${blueX.toFixed(2)} 0)`);showBite(1);if(p>=1){state.forEach((s,i)=>{s.x=0;s.y=0;s.a=0;paint(i)});blue.setAttribute('transform','translate(0 0)');label.textContent='5 · Aligned wordmark · B still whole';if(now-settleStart>1450)startBite(now)}}
+   if(mode==='biting'){const p=Math.min(1,(now-biteStart)/820);let x=0,y=0,scale=1,opacity=1;if(p>.28){const q=(p-.28)/.72;x=4+58*q;y=-3-48*q;scale=1-.48*q;opacity=1-q*.28}showBite(opacity,`translate(${x.toFixed(2)}px, ${y.toFixed(2)}px) scale(${scale.toFixed(3)})`);if(p>=1){showBite(0,'translate(62px, -52px) scale(.52)');label.textContent='6 · Final bite · official logo geometry';mode='done'}}
+   if(mode==='run'||mode==='settling'||mode==='biting')raf=requestAnimationFrame(frame);
+  }raf=requestAnimationFrame(frame)}
+ document.querySelector('#replay').onclick=()=>run(false);document.querySelector('#slow').onclick=()=>run(true);document.querySelector('#scatter').onclick=()=>pose('scatter');document.querySelector('#contact').onclick=()=>pose('contact');document.querySelector('#airborne').onclick=()=>pose('airborne');document.querySelector('#final').onclick=()=>pose('final');document.querySelector('#bitten').onclick=()=>pose('bitten');run(false);
 })();
 </script>
 </body>
